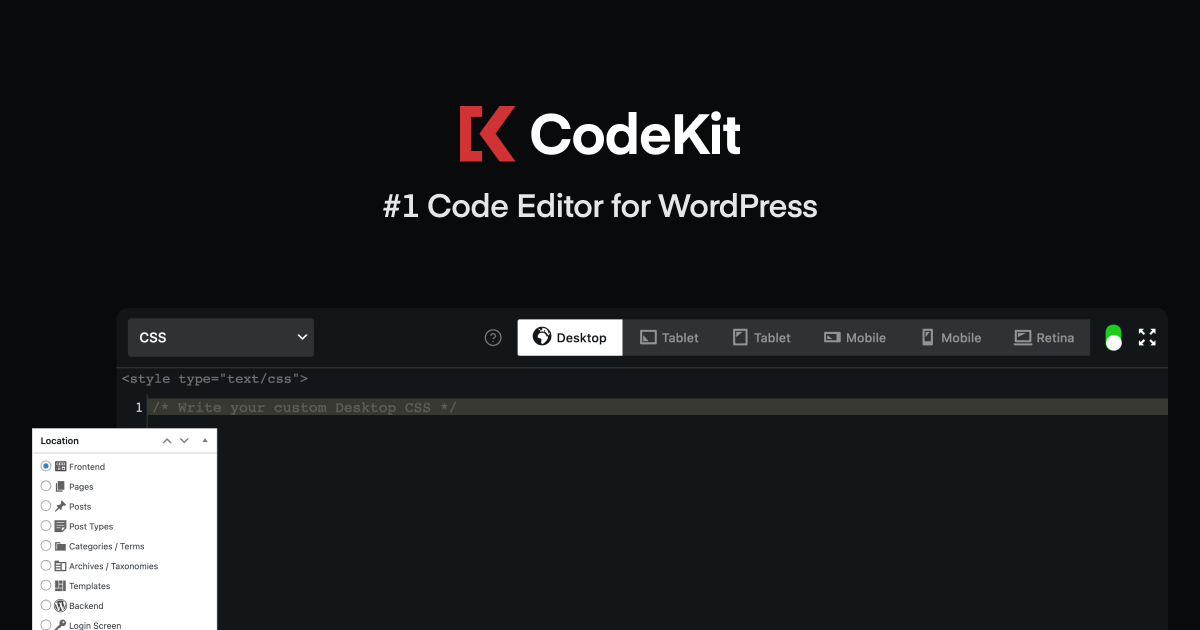
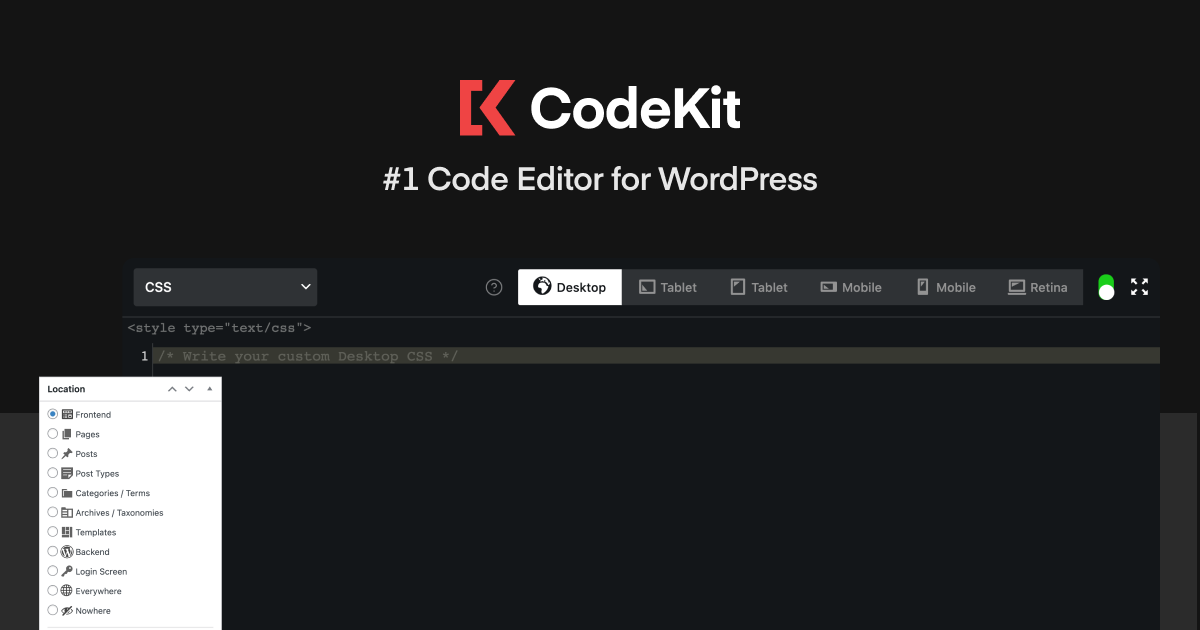
twitter card update

Changed region(s): [[0.0, 0.4222, 1.0, 1.0], [0.3083, 0.1206, 0.6783, 0.3619]]

diff --git a/nuxt.config.js b/nuxt.config.js
@@ -26,7 +26,7 @@ export default {
       {
         hid: 'twitter:card',
         name: 'twitter:card',
-        content: 'summary_large_image',
+        content: 'summary',
       },
       { hid: 'twitter:site', name: 'twitter:site', content: '@CodeKitWP' },
       {
@@ -72,7 +72,7 @@ export default {
       {
         hid: 'og:image',
         property: 'og:image',
-        content: 'https://www.codekitwp.com/codekit-card.png',
+        content: 'https://www.codekitwp.com/images/codekit-card.png',
       },
       {
         hid: 'og:image:secure_url',
